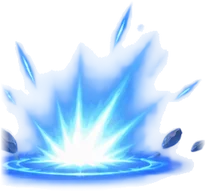
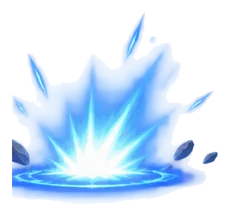
W 보안 강화 이펙트 잘림 수정
- 보호막 돔 프레임이 이펙트 시트의 격자 칸보다 넓어 좌우가 잘리던 문제:
  실제 위치(W_BOXES)로 다시 잘라냄
- 이펙트·귀환 이미지는 투명 여백을 두른 뒤 가장자리 페더 처리 (본체가 흐려지지 않도록)

Claude-Session: https://claude.ai/code/session_01MvzzvQc6xr2KAW6vgqiYJS

diff --git a/tools/build_sprites.py b/tools/build_sprites.py
@@ -74,7 +74,11 @@ def feather(im, px=14):
 
 def save(key, im, scale=None, height=None, q=86, center=False):
     if key.startswith('fx_') or key.endswith('_ret'):
-        im = feather(im, 12)
+        # 투명 여백을 먼저 두르고 가장자리만 부드럽게 → 이펙트 본체는 잘리지 않음
+        pad = 16
+        padded = Image.new('RGBA', (im.width + pad * 2, im.height + pad * 2))
+        padded.paste(im, (pad, pad))
+        im = feather(padded, 12)
     if center:
         im = centered(im)
     if height:
@@ -158,13 +162,15 @@ save('deco_banner', largest(load('download3.png')), height=260)
 # ───────── 이펙트 ─────────
 fx = load('블루 골드 스킬 이펙트 시트.png')
 cw, chh = 1774 / 5, 887 / 3
+# W 보호막 프레임 실제 위치 (돔이 격자 칸 경계를 넘음)
+W_BOXES = {'w_0': (60, 430, 265, 125), 'w_1': (318, 375, 302, 185), 'w_2': (630, 320, 330, 250), 'w_3': (965, 300, 390, 238), 'w_icon': (1352, 345, 128, 190)}
 names = [['q_0', 'q_1', 'q_2', 'q_3', 'q_hit'], ['w_0', 'w_1', 'w_2', 'w_3', 'w_icon'], ['r_0', 'r_1', 'r_2', 'r_3', 'r_trail']]
 for r, row in enumerate(names):
     for c, n in enumerate(row):
         cell = fx.crop((int(c * cw), int(r * chh), int((c + 1) * cw), int((r + 1) * chh)))
         im = largest(cell, dil=10)
-        if n == 'w_icon':  # 방패만
-            im = largest(cell.crop((0, 0, int(cw * 0.62), int(chh))), dil=4)
+        if n in W_BOXES:  # W 보호막은 격자 칸보다 넓어 실제 위치로 잘라냄
+            im = largest(crop(fx, *W_BOXES[n]), dil=10)
         save('fx_' + n, im, scale=0.75)
 save('fx_purple_blast', largest(load('보랏빛 마법 충격파 폭발.png'), keep_all=True), height=300)
 save('fx_red_strike', largest(load('붉은 번개 충격파 이펙트.png'), keep_all=True), height=320)
